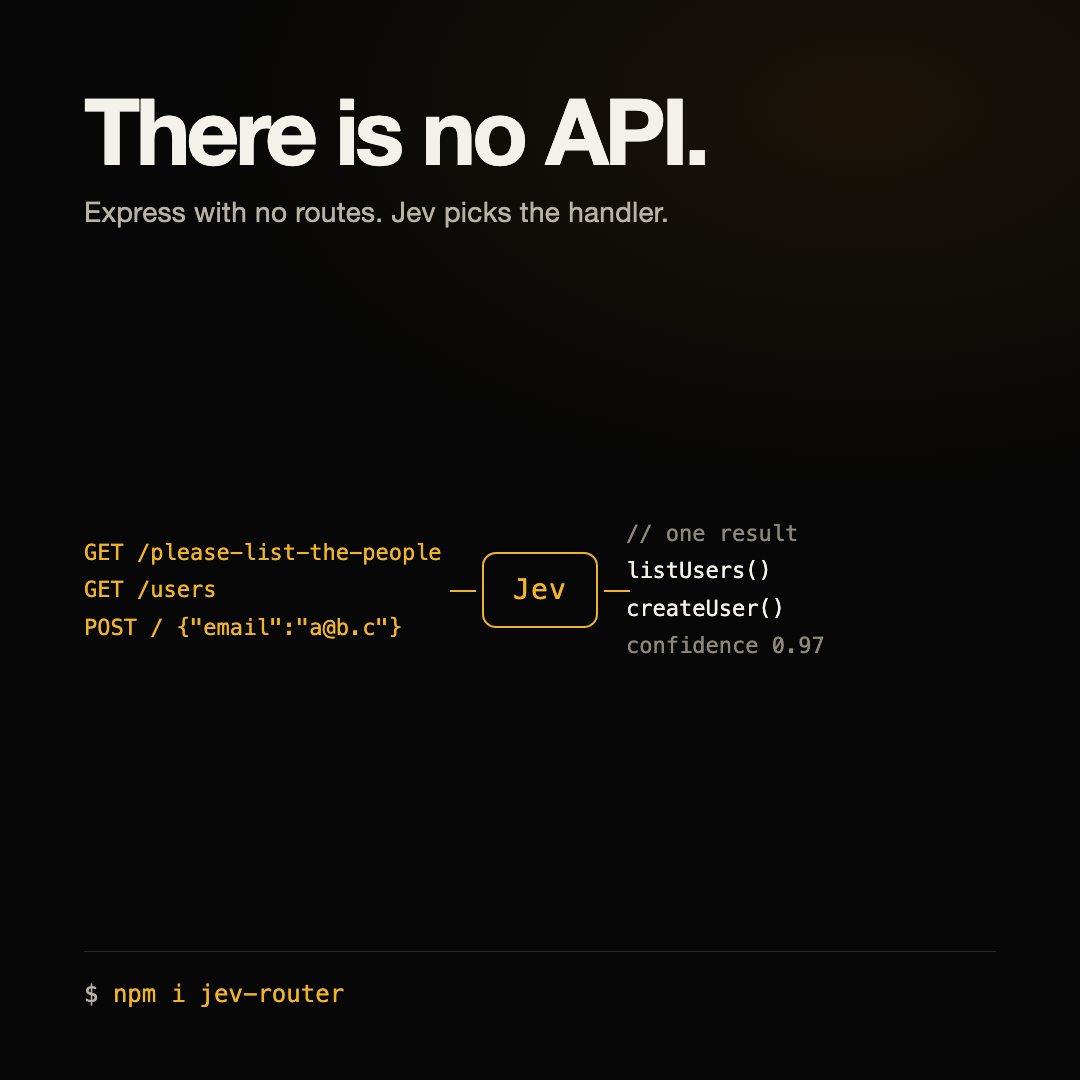
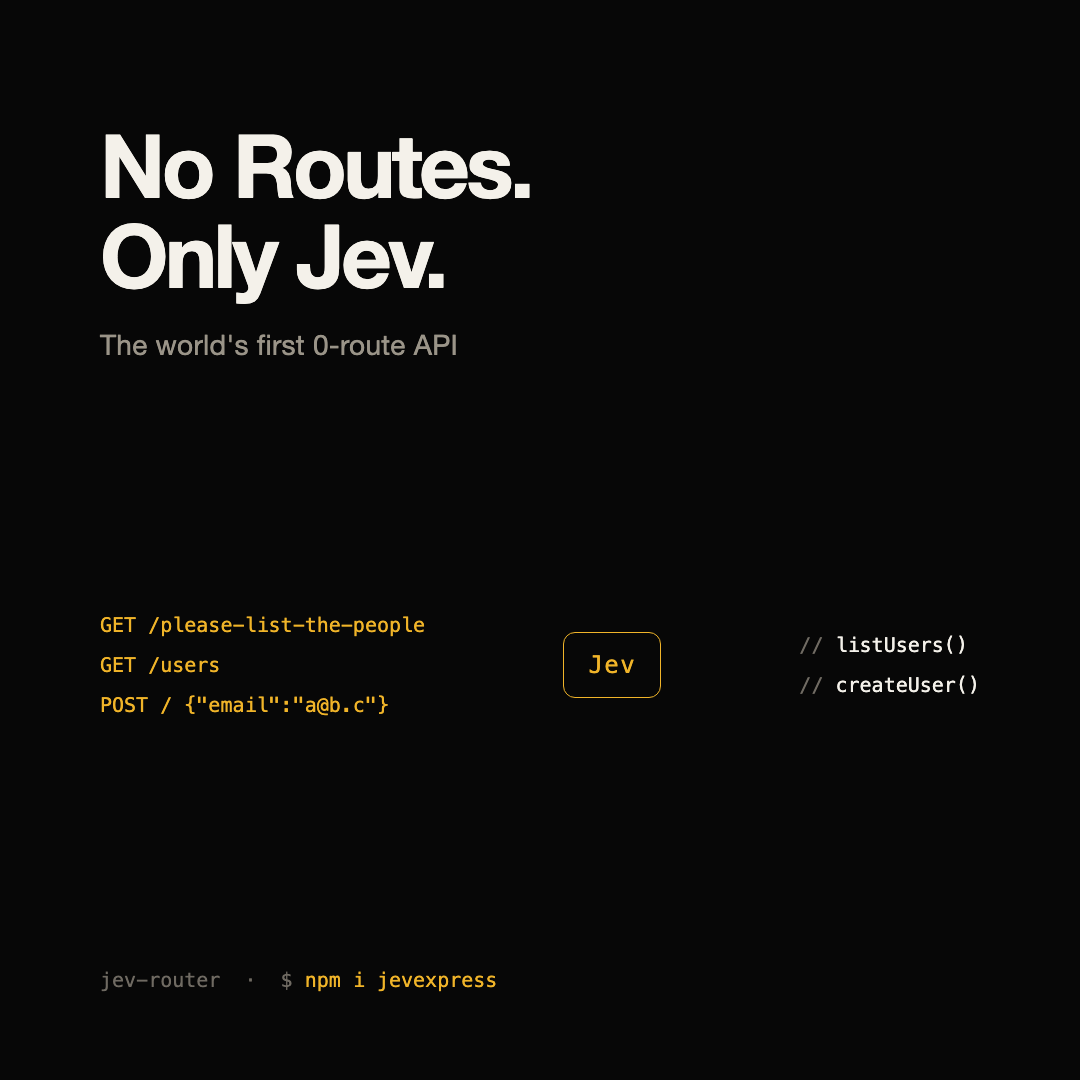
Publish jevexpress 0.1.1 and lock env files out of git.

diff --git a/promo/card.html b/promo/card.html
@@ -16,82 +16,60 @@
         width: 1080px;
         height: 1080px;
         box-sizing: border-box;
-        padding: 88px 84px 72px;
+        padding: 120px 100px 88px;
         display: flex;
         flex-direction: column;
         justify-content: space-between;
-        background: radial-gradient(1200px 700px at 80% 10%, #1a1408 0%, #070707 55%);
+        background: #070707;
       }
       h1 {
         margin: 0;
-        font-size: 92px;
-        line-height: 0.92;
-        letter-spacing: -0.045em;
+        font-size: 88px;
+        line-height: 1.02;
+        letter-spacing: -0.04em;
         font-weight: 700;
       }
       .sub {
-        margin-top: 22px;
+        margin-top: 28px;
         font-size: 28px;
-        color: #b8b2a6;
+        color: #9a9488;
         letter-spacing: 0.01em;
       }
       .flow {
-        display: grid;
-        grid-template-columns: 1fr auto 1fr;
-        gap: 28px;
+        display: flex;
         align-items: center;
+        justify-content: space-between;
+        gap: 40px;
       }
       .reqs,
       .out {
         font-family: "IBM Plex Mono", ui-monospace, Menlo, monospace;
-        font-size: 22px;
-        line-height: 1.7;
+        font-size: 20px;
+        line-height: 2;
       }
       .reqs {
         color: #f0b429;
       }
-      .out {
-        color: #f4f1ea;
-      }
       .out .dim {
-        color: #8d877c;
+        color: #6f6a62;
       }
       .jev {
-        width: 112px;
-        height: 72px;
-        border: 2px solid #f0b429;
-        border-radius: 14px;
+        flex: 0 0 auto;
+        width: 96px;
+        height: 64px;
+        border: 1.5px solid #f0b429;
+        border-radius: 12px;
         display: grid;
         place-items: center;
         color: #f0b429;
         font-family: "IBM Plex Mono", ui-monospace, Menlo, monospace;
-        font-size: 28px;
-        letter-spacing: 0.04em;
-        position: relative;
-      }
-      .jev::before,
-      .jev::after {
-        content: "";
-        position: absolute;
-        top: 50%;
-        width: 26px;
-        height: 2px;
-        background: #f0b429;
-      }
-      .jev::before {
-        right: 100%;
-        margin-right: 8px;
-      }
-      .jev::after {
-        left: 100%;
-        margin-left: 8px;
+        font-size: 24px;
+        letter-spacing: 0.06em;
       }
       .foot {
         font-family: "IBM Plex Mono", ui-monospace, Menlo, monospace;
-        font-size: 24px;
-        color: #b8b2a6;
-        border-top: 1px solid #2a2a2a;
-        padding-top: 28px;
+        font-size: 20px;
+        color: #6f6a62;
       }
       .foot span {
         color: #f0b429;
@@ -101,8 +79,8 @@
   <body>
     <div class="card">
       <header>
-        <h1>There is no API.</h1>
-        <div class="sub">Express with no routes. Jev picks the handler.</div>
+        <h1>No Routes.<br />Only Jev.</h1>
+        <div class="sub">The world's first 0-route API</div>
       </header>
       <div class="flow">
         <div class="reqs">
@@ -112,13 +90,11 @@
         </div>
         <div class="jev">Jev</div>
         <div class="out">
-          <div class="dim">// one result</div>
-          listUsers()<br />
-          createUser()<br />
-          <span class="dim">confidence 0.97</span>
+          <span class="dim">//</span> listUsers()<br />
+          <span class="dim">//</span> createUser()
         </div>
       </div>
-      <div class="foot">$ <span>npm i jev-router</span></div>
+      <div class="foot">jev-router &nbsp;·&nbsp; $ <span>npm i jevexpress</span></div>
     </div>
   </body>
 </html>

diff --git a/README.md b/README.md
@@ -2,11 +2,11 @@
 
 Express with no routes. [Jev](https://typesafe.ai) picks which handler runs.
 
-There is no `GET /users/:id`. Clients hit the origin with whatever path and body they want. Method, URL, and JSON are evidence. You register English intents, not paths. Jev’s Choice keys are the **function names** so the payload stays small.
+There is no `GET /users/:id`. Clients hit the origin. Method, path, and body are evidence. You register **English + a named function**. Jev’s Choice key is `function.name` so the payload stays small.
 
 ```ts
 import express from 'express'
-import { JevRouter } from 'jev-router'
+import { JevRouter } from 'jevexpress'
 
 const api = JevRouter()
 
@@ -23,11 +23,21 @@ api.handle('Create a user from JSON with name and/or email.', createUser)
 
 const app = express()
 app.use(express.json())
-app.get('/health', (_req, res) => res.json({ ok: true })) // never calls Jev
-app.use(api) // this is the API
+app.get('/health', (_req, res) => res.json({ ok: true }))
+app.use(api)
 ```
 
-These can all run the list-users intent:
+What Jev sees:
+
+```json
+{
+  "listUsers": "List users. Collection read; no body required.",
+  "createUser": "Create a user from JSON with name and/or email.",
+  "none_of_the_above": "The request does not match any registered handler."
+}
+```
+
+These can all run `listUsers`:
 
 ```bash
 curl http://localhost:3000/users
@@ -36,35 +46,33 @@ curl -X POST http://localhost:3000/ -H 'content-type: application/json' \
   -d '{"please":"list people"}'
 ```
 
+`handle` takes two arguments only: the intent string, then the function. There is no id and no path. Inline arrows have no `.name` — use `function listUsers(...)`.
+
 ## Install
 
 ```bash
-npm install jev-router express
+npm install jevexpress express
 ```
 
-Node 20+. Set an OpenRouter key — Jev is called through the [Decisions API](https://openrouter.ai/typesafe/jev-1.13), not chat completions:
+Node 20+. Jev is called through OpenRouter’s [Decisions API](https://openrouter.ai/typesafe/jev-1.13), not chat completions:
 
 ```bash
 export OPENROUTER_API_KEY=sk-or-...
 ```
 
-Pin `typesafe/jev-1.13` by default. Pass `model: '~typesafe/jev-latest'` to track current Jev.
+Default model is `typesafe/jev-1.13`. Pass `model: '~typesafe/jev-latest'` to track current Jev.
 
 ## How it works
 
-1. You register handlers with English (`handle(intent, namedFn)`). There is no path. The Choice key is `fn.name`.
-2. Every request (except `GET /health`) becomes `{ method, path, query, contentType, body }`.
-3. One Jev **Choice** runs over those function names plus `none_of_the_above`; the sentences are the criteria.
-4. If `confidence < 0.65` (configurable) or the pick is unmatched → **404** with the full probability dump.
-5. Otherwise that function runs. Jev cannot invent a new handler. Anonymous arrows have no name — use `function listUsers(...)`.
+1. `handle(intent, namedFn)` — no route table.
+2. Every request except `GET /health` becomes `{ method, path, query, contentType, body }`.
+3. One Choice over the function names + `none_of_the_above`. The sentences are the criteria.
+4. `confidence < 0.65` or `none_of_the_above` → **404** with the probability dump.
+5. Otherwise that function runs. Jev cannot invent a new handler.
 
-Headers on every Jev response:
+Headers: `X-Jev-Handler` (the function name), `X-Jev-Confidence`, `X-Jev-Model`.
 
-- `X-Jev-Handler`
-- `X-Jev-Confidence`
-- `X-Jev-Model`
-
-Put **auth in front** of `app.use(api)`. Do not let the model choose privileged handlers for anonymous traffic.
+Put **auth in front** of `app.use(api)`.
 
 ## Options
 
@@ -79,10 +87,10 @@ JevRouter({
 
 ## Limits
 
-- Choice is capped at **255** options. This library keeps 254 handlers + `none_of_the_above`.
-- Typical Jev latency is ~70–500ms. Fine for a weird RPC; not a hot REST path.
-- URLs are not the interface. OpenAPI and CDN cache keys do not apply.
-- Body is truncated (~4k chars). `authorization` / `cookie` are not sent as headers (they were never part of state).
+- Choice is capped at **255** options (254 handlers + `none_of_the_above`).
+- Typical Jev latency is ~70–500ms.
+- URLs are not the interface.
+- Body is truncated (~4k chars). Do not minify handler names away.
 
 ## Demo
 
@@ -93,4 +101,4 @@ npx tsx examples/demo.ts
 
 ## License
 
-MIT
+MIT — [github.com/carllippert/jev-router](https://github.com/carllippert/jev-router)
